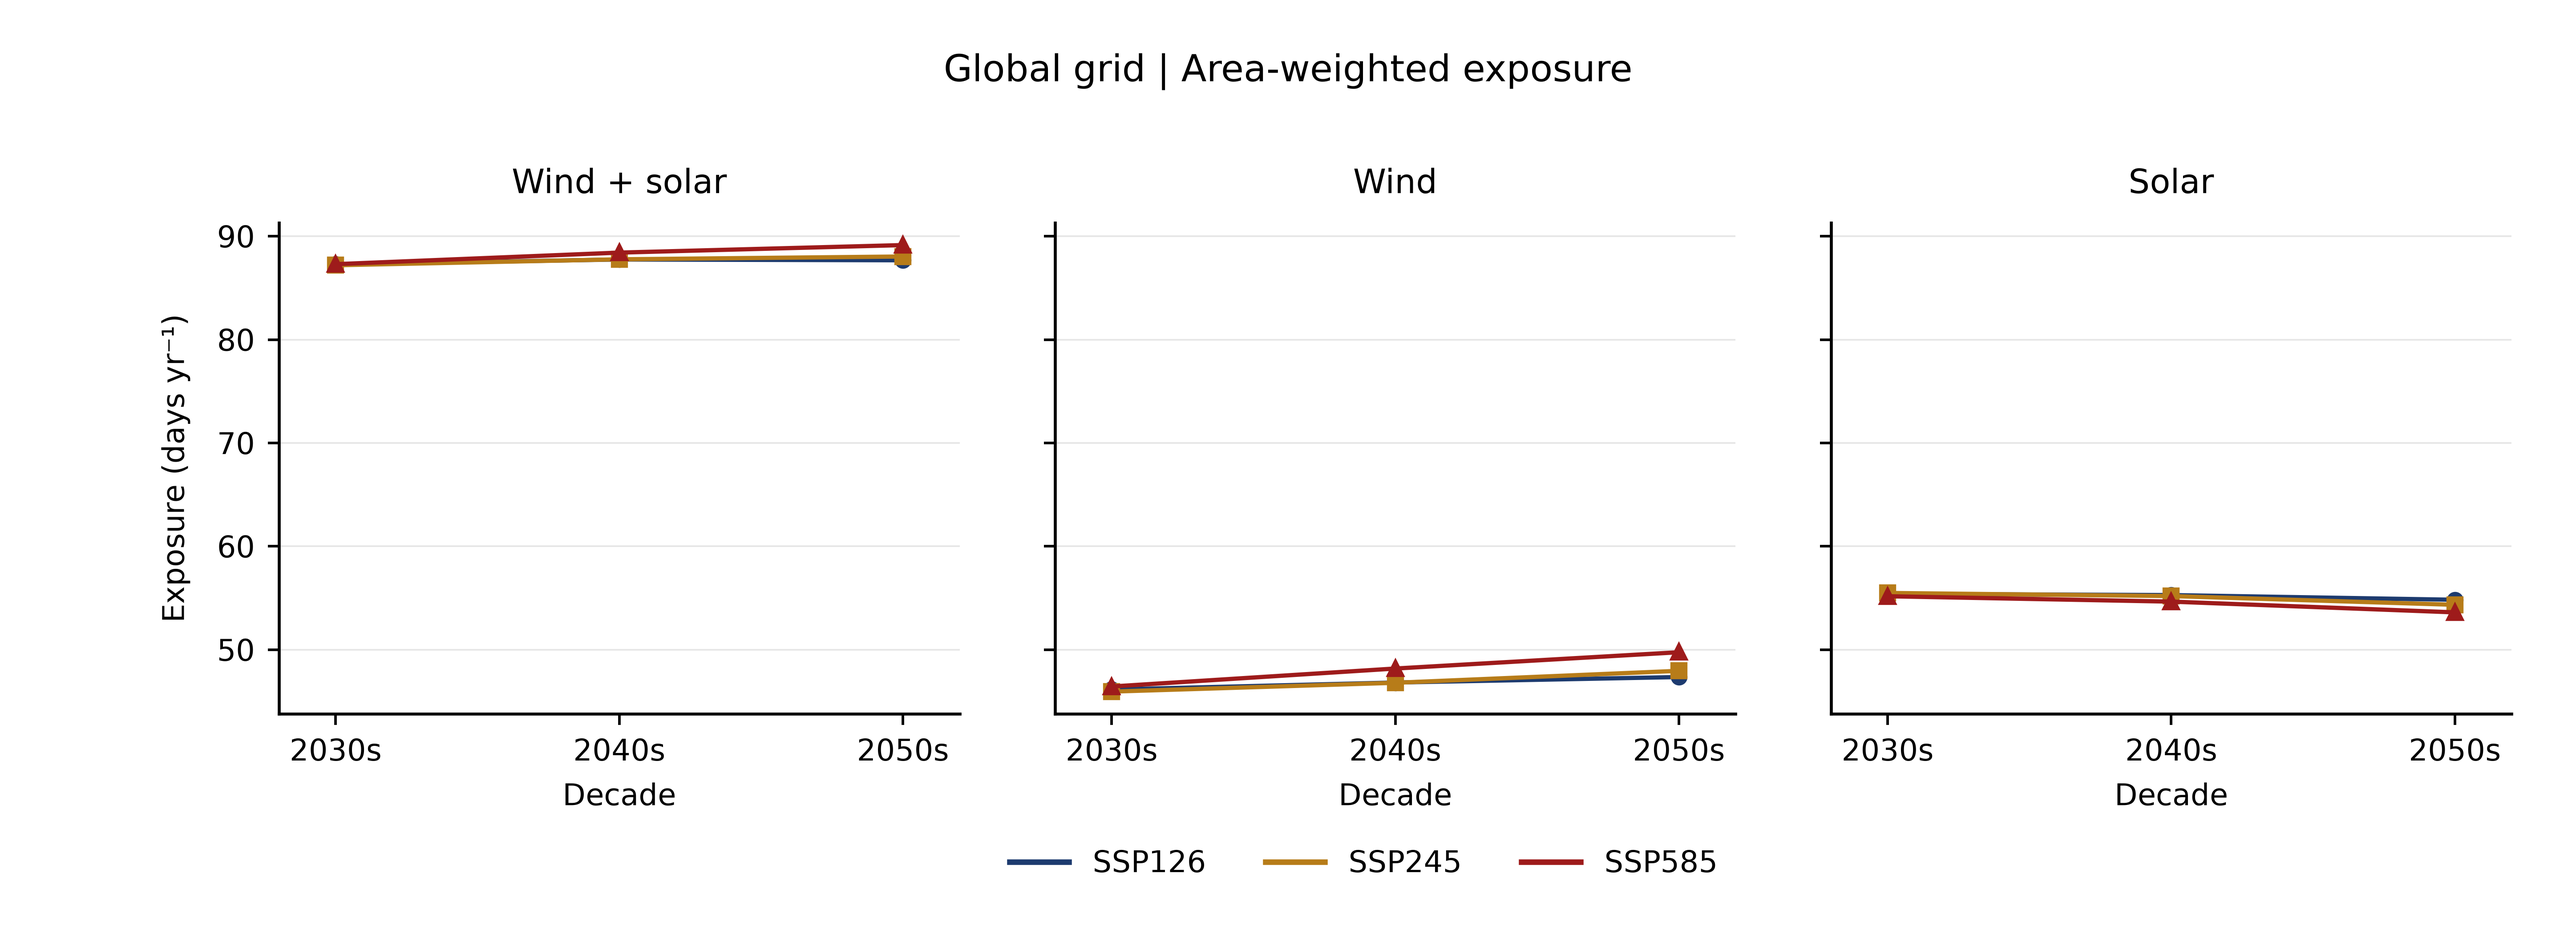
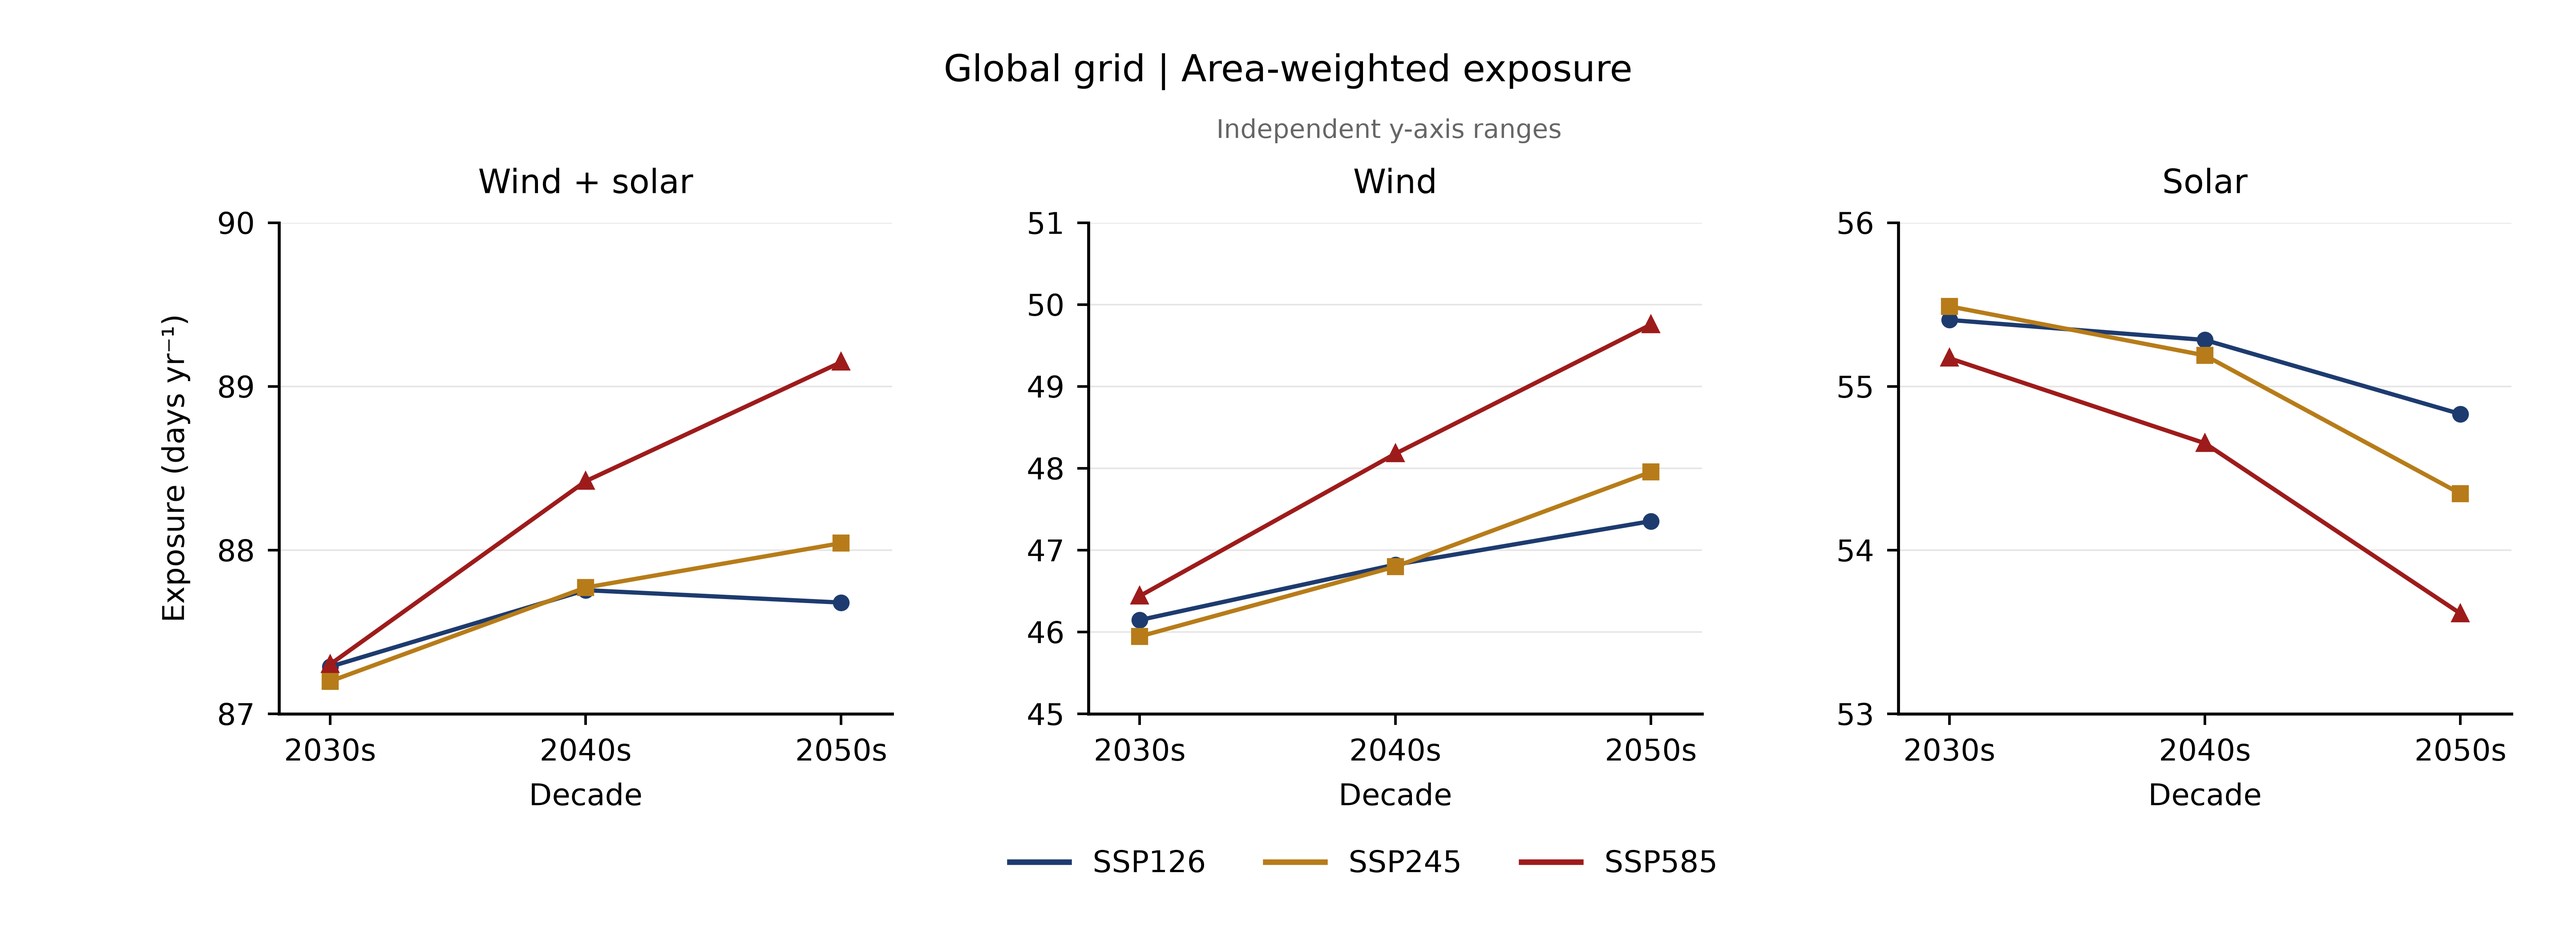
figures: use independent y-axis ranges for selected metric trends

diff --git a/document/风电光伏数据.md b/document/风电光伏数据.md
@@ -71,7 +71,7 @@
 - 装机量、暴露：仅三个年代点并连线；暴露先取每模式十年均值，再取四模式均值。
 - 损失、发电：2030—2059逐年四模式均值实线；每个面板每个SSP仅拟合一条覆盖全30年的OLS虚线，不按年代分别拟合。
 - 拟合采用 \(y=a+b(year-2030)\)，属于描述性趋势，不报告显著性。六张年度图共54条拟合线。
-- 三面板共用同一纵轴范围，SSP126/245/585分别沿用深蓝、赭黄、深红。只输出完整600 dpi PNG，不导出独立子图。
+- 图2、3、6、9、11的三个面板使用独立纵轴范围，并分别显示刻度；其余图共用纵轴范围。SSP126/245/585分别沿用深蓝、赭黄、深红。只输出完整600 dpi PNG，不导出独立子图。
 - [全部拟合系数](../paper_figures/supplementary/global_metric_trends/outputs/source_data/all_linear_fits.csv)；每张年度图另有同名 `_fits.csv`。
 - [并集逐年结果](../paper_figures/supplementary/global_metric_trends/outputs/source_data/grid_union_annual.csv)、[并集年代结果](../paper_figures/supplementary/global_metric_trends/outputs/source_data/grid_union_decadal.csv)、[空间覆盖](../paper_figures/supplementary/global_metric_trends/outputs/source_data/grid_union_coverage.csv)。
 - [并集校验](../paper_figures/supplementary/global_metric_trends/outputs/union_validation.json)、[指标与图件校验](../paper_figures/supplementary/global_metric_trends/outputs/validation.json)、[输入哈希](../paper_figures/supplementary/global_metric_trends/outputs/input_provenance.json)、[结果清单](../paper_figures/supplementary/global_metric_trends/outputs/results_manifest.json)、[绘图约定](../paper_figures/supplementary/global_metric_trends/outputs/figure_contract.json)。
